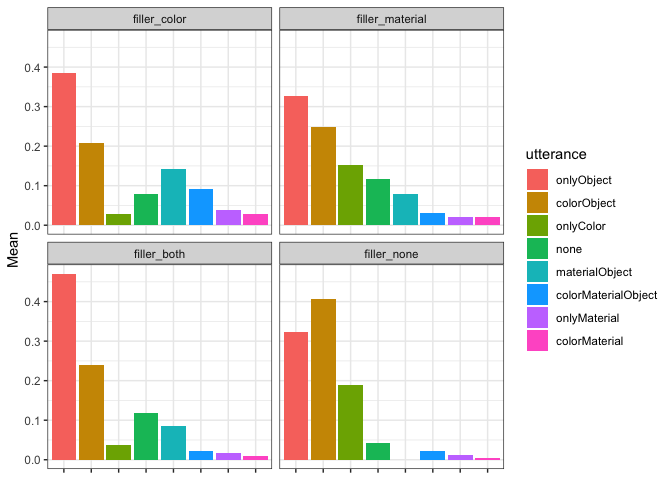
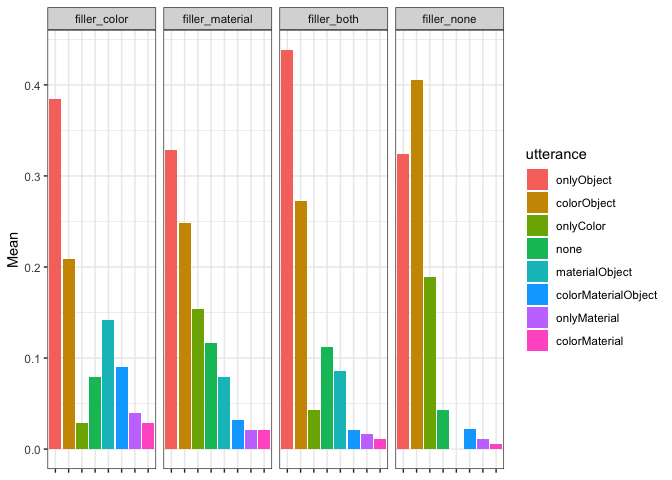
update to prod exp readme

Changed region(s): [[0.0312, 0.0, 0.75, 1.0], [0.3125, 0.2188, 0.3438, 0.25]]

diff --git a/analysis/05_production/main/readme.md b/analysis/05_production/main/readme.md
@@ -46,7 +46,7 @@ Remove games with non-native speakers:
 
     ## 
     ##   0   1 
-    ##  90 668
+    ##  72 686
 
 **Was a material mentioned?**
 
@@ -108,7 +108,7 @@ Remove games with non-native speakers:
     ##   0   1 
     ##  29 729
 
-    ## [1] "percentage of trials where non-target was chosen:  3.82585751978892"
+    ## [1] "percentage of trials where non-target was selected:  3.82585751978892"
 
     ##                  
     ##                     0   1
@@ -134,7 +134,7 @@ by-item intercepts and slopes for redundant
     property**
 
     ## Warning in checkConv(attr(opt, "derivs"), opt$par, ctrl = control$checkConv, :
-    ## Model failed to converge with max|grad| = 0.0535335 (tol = 0.002, component 1)
+    ## Model failed to converge with max|grad| = 0.0553896 (tol = 0.002, component 1)
 
     ## Warning in checkConv(attr(opt, "derivs"), opt$par, ctrl = control$checkConv, : Model is nearly unidentifiable: very large eigenvalue
     ##  - Rescale variables?
@@ -146,22 +146,22 @@ by-item intercepts and slopes for redundant
     ##    Data: targets
     ## 
     ##      AIC      BIC   logLik deviance df.resid 
-    ##    514.8    532.9   -253.4    506.8      670 
+    ##    515.2    533.3   -253.6    507.2      688 
     ## 
     ## Scaled residuals: 
     ##     Min      1Q  Median      3Q     Max 
-    ## -2.8846 -0.3473 -0.1320  0.2195  5.0779 
+    ## -2.8722 -0.3427 -0.1206  0.0188  5.1311 
     ## 
     ## Random effects:
     ##  Groups        Name        Variance Std.Dev.
-    ##  gameid        (Intercept) 2.536    1.592   
-    ##  clickedobject (Intercept) 2.705    1.645   
-    ## Number of obs: 674, groups:  gameid, 51; clickedobject, 9
+    ##  gameid        (Intercept) 2.547    1.596   
+    ##  clickedobject (Intercept) 2.731    1.653   
+    ## Number of obs: 692, groups:  gameid, 51; clickedobject, 9
     ## 
     ## Fixed effects:
     ##                          Estimate Std. Error z value Pr(>|z|)    
-    ## (Intercept)             -2.775824   0.001321   -2101   <2e-16 ***
-    ## trialTypelow_difficulty  1.751708   0.001322    1326   <2e-16 ***
+    ## (Intercept)             -2.798401   0.001362   -2055   <2e-16 ***
+    ## trialTypelow_difficulty  1.775660   0.001319    1346   <2e-16 ***
     ## ---
     ## Signif. codes:  0 '***' 0.001 '**' 0.01 '*' 0.05 '.' 0.1 ' ' 1
     ## 
@@ -169,9 +169,16 @@ by-item intercepts and slopes for redundant
     ##             (Intr)
     ## trlTyplw_df 0.000 
     ## convergence code: 0
-    ## Model failed to converge with max|grad| = 0.0535335 (tol = 0.002, component 1)
+    ## Model failed to converge with max|grad| = 0.0553896 (tol = 0.002, component 1)
     ## Model is nearly unidentifiable: very large eigenvalue
     ##  - Rescale variables?
+
+**with other
+    modifiers**
+
+    ## `summarise()` regrouping output by 'RedundantProperty', 'trialType' (override with `.groups` argument)
+
+![](analysis_files/figure-gfm/targets_other-1.png)<!-- -->
 
 ## Fillers
 
@@ -192,7 +199,7 @@ target
 
     ## 
     ##   0   1 
-    ## 423 329
+    ## 416 336
 
 **Was a material mentioned?**
 
@@ -234,4 +241,50 @@ Number of
 
     ## `summarise()` regrouping output by 'clickedObjCondition' (override with `.groups` argument)
 
-![](analysis_files/figure-gfm/fillerplot-1.png)<!-- -->
+![](analysis_files/figure-gfm/fillerplot-1.png)<!-- --> **Mixed effects
+logistic regression predicting redundant adjective use from fixed
+effects of redundant property, with random by-subject and by-item
+intercepts and slopes for redundant property** going from high
+difficulty-material redundant(0) to low difficulty-color redundant(1) &
+no redundancy(0) to redundancy(1) –\> should be
+    positive
+
+    ## Warning in checkConv(attr(opt, "derivs"), opt$par, ctrl = control$checkConv, :
+    ## Model failed to converge with max|grad| = 0.0553896 (tol = 0.002, component 1)
+
+    ## Warning in checkConv(attr(opt, "derivs"), opt$par, ctrl = control$checkConv, : Model is nearly unidentifiable: very large eigenvalue
+    ##  - Rescale variables?
+
+    ## Generalized linear mixed model fit by maximum likelihood (Laplace
+    ##   Approximation) [glmerMod]
+    ##  Family: binomial  ( logit )
+    ## Formula: redundant ~ trialType + (1 | gameid) + (1 | clickedobject)
+    ##    Data: targets
+    ## 
+    ##      AIC      BIC   logLik deviance df.resid 
+    ##    515.2    533.3   -253.6    507.2      688 
+    ## 
+    ## Scaled residuals: 
+    ##     Min      1Q  Median      3Q     Max 
+    ## -2.8722 -0.3427 -0.1206  0.0188  5.1311 
+    ## 
+    ## Random effects:
+    ##  Groups        Name        Variance Std.Dev.
+    ##  gameid        (Intercept) 2.547    1.596   
+    ##  clickedobject (Intercept) 2.731    1.653   
+    ## Number of obs: 692, groups:  gameid, 51; clickedobject, 9
+    ## 
+    ## Fixed effects:
+    ##                          Estimate Std. Error z value Pr(>|z|)    
+    ## (Intercept)             -2.798401   0.001362   -2055   <2e-16 ***
+    ## trialTypelow_difficulty  1.775660   0.001319    1346   <2e-16 ***
+    ## ---
+    ## Signif. codes:  0 '***' 0.001 '**' 0.01 '*' 0.05 '.' 0.1 ' ' 1
+    ## 
+    ## Correlation of Fixed Effects:
+    ##             (Intr)
+    ## trlTyplw_df 0.000 
+    ## convergence code: 0
+    ## Model failed to converge with max|grad| = 0.0553896 (tol = 0.002, component 1)
+    ## Model is nearly unidentifiable: very large eigenvalue
+    ##  - Rescale variables?
